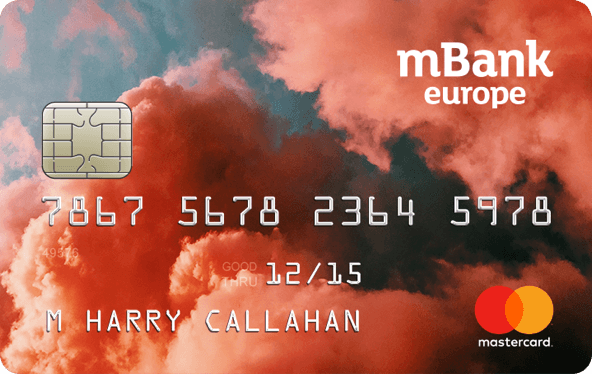
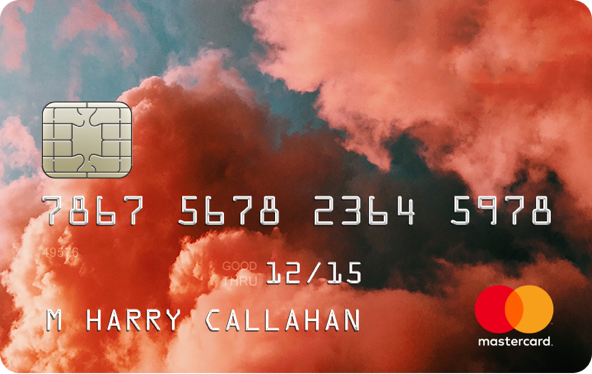
Remove branding

diff --git a/src/text/english.js b/src/text/english.js
@@ -22,8 +22,8 @@ export default {
     confirmPassword: 'Confirm password',
     deny: 'Deny',
     allow: 'Allow',
-    allowLocation: 'Allow mBank Europe to access this device’s location?',
-    allowCamera: 'Allow mBank Europe app to take pictures and record video?',
+    allowLocation: 'Allow MeineFinanzen to access this device’s location?',
+    allowCamera: 'Allow MeineFinanzen app to take pictures and record video?',
     germany: 'Germany',
     continue: 'Continue',
     thanks: 'Thanks!',
@@ -39,7 +39,7 @@ export default {
     },
     usp: {
       0: 'Transfer money for free worldwide',
-      1: 'Send money abroad for free in realtime with mBank Europe. Transfer money to any bank, business or friend immediately.',
+      1: 'Send money abroad for free in realtime with MeineFinanzen. Transfer money to any bank, business or friend immediately.',
       2: 'ATM for free worldwide',
       3: 'Up to 500 Euro you can take cash from ATM for free in any country.',
       4: 'Multicurrency contactless',
@@ -55,7 +55,7 @@ export default {
     },
     step1: {
       intro: {
-        0: 'Get your new mBank account in only 3 simple steps and start with…'
+        0: 'Get your new MeineFinanzen account in only 3 simple steps and start with…'
       },
       name: {
         0: 'Please tell us something about yourself',
@@ -112,17 +112,17 @@ export default {
         0: 'Almost done! Only a few consents left',
         1: 'Confirm all',
         2: 'Electronic communication',
-        3: 'Terms of Service of mBank and IDNow',
-        4: 'Advertisement of mBank partners',
+        3: 'Terms of Service of MeineFinanzen and IDNow',
+        4: 'Advertisement of MeineFinanzen partners',
         5: 'Data processing and usage',
         6: 'General Data Protection Regulation'
       },
       finish: {
-        0: 'Finally, let’s open your mBank account!',
+        0: 'Finally, let’s open your MeineFinanzen account!',
         1: 'Below is a link to the contract.',
         2: 'But you don’t need to download it now, as we already sent it to you by email.',
-        3: 'Download the full mBank Account Contract (PDF)',
-        4: 'I want to open an mBank account and confirm that I act on <em>my own behalf</em>'
+        3: 'Download the full MeineFinanzen Account Contract (PDF)',
+        4: 'I want to open an MeineFinanzen account and confirm that I act on <em>my own behalf</em>'
       }
     },
     step2: {
@@ -160,7 +160,7 @@ export default {
         4: 'We can send it again'
       },
       accountReady: {
-        0: 'Your new mBank account is ready!',
+        0: 'Your new MeineFinanzen account is ready!',
         1: 'Forward account data',
         2: 'IBAN',
         3: 'DE12 1234 5678 9876 54',
@@ -225,7 +225,7 @@ export default {
       9: 'Thanks to these we will be able to provide you with better quality of advertising, without irritation and unnecessary spam!',
       10: 'To be sure that you log in to the right place, you will recognize it with your profile pic.',
       11: 'Don’t forget to smile!',
-      12: '{userName} your mBank Europe account is ready to use!',
+      12: '{userName} your MeineFinanzen account is ready to use!',
       13: 'Your MasterCard Debit PayPass card is on its way to the address provided in the form',
       14: "Let's go there!",
       15: '{userName}, before we start',

diff --git a/src/text/german.js b/src/text/german.js
@@ -22,8 +22,8 @@ export default {
     confirmPassword: 'Passwort bestätigen',
     deny: 'Ablehnen',
     allow: 'Erlauben',
-    allowLocation: 'Erlaube mBank Europe auf den Standort deines Geräts zuzugreifen',
-    allowCamera: 'Erlaube der mBank Europe App, Bilder und Videos aufzunehmen',
+    allowLocation: 'Erlaube MeineFinanzen auf den Standort deines Geräts zuzugreifen',
+    allowCamera: 'Erlaube der MeineFinanzen App, Bilder und Videos aufzunehmen',
     germany: 'Deutschland',
     continue: 'Continue',
     thanks: 'Thanks!',
@@ -57,7 +57,7 @@ export default {
     },
     step1: {
       intro: {
-        0: 'Eröffne dein mBank europe Konto in 3 einfachen Schritten und beginne mit…'
+        0: 'Eröffne dein MeineFinanzen europe Konto in 3 einfachen Schritten und beginne mit…'
       },
       name: {
         0: 'Bitte erzähle uns etwas über dich',
@@ -114,17 +114,17 @@ export default {
         0: 'Fast geschafft! Nur folgende Einwilligungen fehlen noch',
         1: 'Alle bestätigen',
         2: 'Fernsabsatzgesetz',
-        3: 'Nutzungsbedingungen der mBank und von IDNow',
-        4: 'Werbliche Informationen der mBank-Partner',
+        3: 'Nutzungsbedingungen der MeineFinanzen und von IDNow',
+        4: 'Werbliche Informationen der MeineFinanzen-Partner',
         5: 'Datenverarbeitung und Datennutzung',
         6: 'Datenschutz-Grundverordnung'
       },
       finish: {
-        0: 'Geschafft! Lass und jetzt dein mBank europe Konto eröffnen!',
+        0: 'Geschafft! Lass und jetzt dein MeineFinanzen europe Konto eröffnen!',
         1: 'Unten findest du den Link zu deinem Kontovertrag.',
         2: 'Du musst ihn jetzt nicht herunterladen, wir haben ihn dir bereits per E-Mail geschickt',
-        3: 'Lade den kompletten mBank Kontovertrag herunter (PDF)',
-        4: 'Ich möchte ein mBank europe Konto eröffnen und bestätige, dass ich <em>für mich selbst handle</em>'
+        3: 'Lade den kompletten MeineFinanzen Kontovertrag herunter (PDF)',
+        4: 'Ich möchte ein MeineFinanzen europe Konto eröffnen und bestätige, dass ich <em>für mich selbst handle</em>'
       }
     },
     step2: {
@@ -162,7 +162,7 @@ export default {
         4: 'We can send it again'
       },
       accountReady: {
-        0: 'Dein neues mBank Konto ist eröffnet!',
+        0: 'Dein neues MeineFinanzen Konto ist eröffnet!',
         1: 'Hier sind deine Kontodaten',
         2: 'IBAN',
         3: 'DE12 1234 5678 9876 54',
@@ -227,7 +227,7 @@ export default {
       9: 'Thanks to these we will be able to provide you with better quality of advertising, without irritation and unnecessary spam!',
       10: 'To be sure that you log in to the right place, you will recognize it with your profile pic.',
       11: 'Don’t forget to smile!',
-      12: '{userName} your mBank Europe account is ready to use!',
+      12: '{userName} your MeineFinanzen account is ready to use!',
       13: 'Your MasterCard Debit PayPass card is on its way to the address provided in the form',
       14: "Let's go there!",
       15: '{userName}, before we start',

diff --git a/src/components/App.js b/src/components/App.js
@@ -1,3 +1,5 @@
+// TODO: schować pattern po zakończeniu animacji intro page
+
 import React, { Component } from 'react'
 import styled from 'styled-components'
 import { hot } from 'react-hot-loader'
@@ -39,14 +41,13 @@ import DashboardPage from 'pages/onboarding-2/DashboardPage'
 // 404
 import NotFoundPage from 'pages/NotFoundPage'
 
-const VERSION = 'v0.8.0'
+const VERSION = 'v0.8.2'
 
 class App extends Component {
   state = {
     password: '',
     loggedIn: Boolean(sessionStorage.getItem('loggedIn')),
     imagesLoaded: false,
-    shouldPrefillData: false,
     language: sessionStorage.getItem('language') || 'english'
   }
 
@@ -69,7 +70,7 @@ class App extends Component {
   }
 
   render() {
-    const { password, loggedIn, imagesLoaded, shouldPrefillData, language } = this.state
+    const { password, loggedIn, imagesLoaded, language } = this.state
 
     return (
       <TextProvider language={language}>
@@ -128,12 +129,7 @@ class App extends Component {
             <PrivateRoute path="/onboarding-1/usp" isRestricted={!loggedIn} component={UspPage} />
             <PrivateRoute path="/onboarding-1/first-login" isRestricted={!loggedIn} component={FirstLoginPage} />
 
-            <PrivateRoute
-              path="/onboarding-1/step-1"
-              isRestricted={!loggedIn}
-              component={Step1Page}
-              shouldPrefillData={shouldPrefillData}
-            />
+            <PrivateRoute path="/onboarding-1/step-1" isRestricted={!loggedIn} component={Step1Page} />
 
             <PrivateRoute path="/onboarding-1/step-2" isRestricted={!loggedIn} component={Step2Page} />
             <PrivateRoute path="/onboarding-1/step-3" isRestricted={!loggedIn} component={Step3Page} />
@@ -156,11 +152,7 @@ class App extends Component {
           </Switch>
 
           {process.env.NODE_ENV === 'development' && (
-            <RouteChanger
-              location={this.props.location}
-              history={this.props.history}
-              handlePrefill={() => this.setState({ shouldPrefillData: true })}
-            />
+            <RouteChanger location={this.props.location} history={this.props.history} />
           )}
         </Background>
       </TextProvider>
@@ -170,7 +162,6 @@ class App extends Component {
 
 export default hot(module)(App)
 
-/* prettier-ignore */
 const AppVersion = styled.span`
   position: fixed;
   bottom: 8px;

diff --git a/src/pages/onboarding-1/Step1Page.js b/src/pages/onboarding-1/Step1Page.js
@@ -40,47 +40,6 @@ import contractPdf from 'assets/Contract.pdf'
 
 const paths = routes.filter(route => route.includes('/onboarding-1/step-1/'))
 
-const prefilledData = {
-  firstName: 'John',
-  lastName: 'Rambo',
-  maidenName: 'Robert',
-  chosenCard: 1,
-  email: 'john.rambo@fake.mail',
-  phoneNumber: '123 456 789',
-  birthDate: '10-10-1970',
-  birthPlace: 'Houston',
-  citizenship: 'American',
-  postalCode: '02-345',
-  city: 'Houston',
-  streetName: 'Some Street',
-  buildingNumber: '1',
-  apartmentNumber: '23',
-  country: 'Germany',
-  isCorrespondenceAddressDifferent: true,
-  correspondencePostalCode: '03-489',
-  correspondenceCity: 'Somewhere',
-  correspondenceStreetName: 'Something',
-  correspondenceBuildingNumber: '9',
-  correspondenceApartmentNumber: '',
-  correspondenceCountry: 'Germany',
-  taxes: [
-    {
-      id: uuid(),
-      countryOfTax: 'Foo',
-      taxId: '123'
-    }
-  ],
-  job: '',
-  industry: '',
-  consent1: true,
-  consent2: true,
-  consent3: true,
-  consent4: true,
-  consent5: false,
-  consent6: false,
-  reviewEditMode: false
-}
-
 class Step1Page extends Component {
   state = {
     firstName: '',
@@ -126,12 +85,6 @@ class Step1Page extends Component {
     showLocationModal: false,
     allowLocation: false,
     locationModalCallback: null
-  }
-
-  componentDidUpdate(prevProps) {
-    if (!prevProps.shouldPrefillData && this.props.shouldPrefillData) {
-      this.setState(prefilledData)
-    }
   }
 
   change = name => value => this.setState({ [name]: value })

diff --git a/src/components/CardCarousel.js b/src/components/CardCarousel.js
@@ -15,21 +15,19 @@ export default ({ value, onChange }) => {
 
   return (
     <Wrapper>
-      <Swiper onSwipeLeft={handleChange(move(value, 1, 3))} onSwipeRight={handleChange(move(value, -1, 3))}>
+      <Swiper onSwipeLeft={handleChange(move(value, 1, 2))} onSwipeRight={handleChange(move(value, -1, 2))}>
         <Track offset={value}>
           <Card src={card1} isActive={value === 0} onClick={handleChange(0)} />
           <Card src={card2} isActive={value === 1} onClick={handleChange(1)} />
           <Card src={card3} isActive={value === 2} onClick={handleChange(2)} />
-          <Card src={card1} isActive={value === 3} onClick={handleChange(3)} />
         </Track>
       </Swiper>
 
-      <Pagination size={4} value={value} onChange={handleChange} />
+      <Pagination size={3} value={value} onChange={handleChange} />
     </Wrapper>
   )
 }
 
-/* prettier-ignore */
 const Wrapper = styled.div`
   display: flex;
   flex-direction: column;
@@ -48,6 +46,7 @@ const Track = styled.div`
   transition: 0.3s;
 `
 
+// prettier-ignore
 const Card = styled.img.attrs({ alt: '' })`
   flex: none;
   display: block;
@@ -56,10 +55,8 @@ const Card = styled.img.attrs({ alt: '' })`
 
   transition: 0.3s;
 
-  ${props =>
-    !props.isActive &&
-    `
+  ${props => !props.isActive && `
     opacity: 0.5;
     transform: scale(0.9);
-  `};
+  `}
 `

diff --git a/src/components/Pagination.js b/src/components/Pagination.js
@@ -1,6 +1,7 @@
 import React from 'react'
 import styled from 'styled-components'
 import { Div } from 'styled-kit'
+import { rgba } from 'polished'
 
 export default ({ size, value, onChange, small, ...props }) => (
   <Div flex="none" itemsCenter listLeft={small ? 8 : 12} {...props}>
@@ -15,7 +16,7 @@ const Dot = styled.span`
   width: ${props => (props.small ? 6 : 10)}px;
   height: ${props => (props.small ? 6 : 10)}px;
   border-radius: 50%;
-  background: ${props => (props.isActive ? 'black' : 'rgba(0, 0, 0, 0.2)')};
+  background: ${props => (props.isActive ? 'black' : rgba('black', 0.2))};
   transition: 0.3s;
   cursor: pointer;
 `

diff --git a/src/components/PrivateRoute.js b/src/components/PrivateRoute.js
@@ -5,16 +5,7 @@ export default ({ component: Component, isRestricted, ...rest }) => (
   <Route
     {...rest}
     render={props =>
-      !isRestricted ? (
-        <Component {...props} shouldPrefillData={rest.shouldPrefillData} />
-      ) : (
-        <Redirect
-          to={{
-            pathname: '/',
-            state: { from: props.location }
-          }}
-        />
-      )
+      !isRestricted ? <Component {...props} /> : <Redirect to={{ pathname: '/', state: { from: props.location } }} />
     }
   />
 )

diff --git a/src/components/RouteChanger.js b/src/components/RouteChanger.js
@@ -30,13 +30,10 @@ export default props => {
           ))}
         </RoutesList>
       </Button>
-
-      <Button onClick={props.handlePrefill}>Prefill</Button>
     </Wrapper>
   )
 }
 
-/* prettier-ignore */
 const RoutesList = styled.div`
   padding: 2px 4px;
 
@@ -73,7 +70,7 @@ const RoutesList = styled.div`
       text-decoration: underline;
     }
   }
-`;
+`
 
 const Wrapper = styled.div`
   display: flex;

diff --git a/public/index.html b/public/index.html
@@ -12,7 +12,7 @@
     <link rel="mask-icon" href="%PUBLIC_URL%/safari-pinned-tab.svg" color="#ffc40d">
     <meta name="msapplication-TileColor" content="#ffc40d">
     <meta name="theme-color" content="#ffffff">
-    <title>mBank Onboarding Demo</title>
+    <title>MeineFinanzen Onboarding Demo</title>
   </head>
   <body>
     <noscript>

diff --git a/src/components/SmsDialog.js b/src/components/SmsDialog.js
@@ -16,7 +16,7 @@ const SmsDialog = ({ pin, isVisible, withDash, texts, ...props }) => {
         <Avatar>me</Avatar>
 
         <Div column mLeft={12}>
-          <Title>mBank Europe</Title>
+          <Title>MeineFinanzen</Title>
 
           <Subtitle>
             {/*  TODO: texts.onboarding1.step2.smsCode[0] */}

diff --git a/src/components/Typography.js b/src/components/Typography.js
@@ -2,7 +2,7 @@ import styled, { css } from 'styled-components'
 
 const withUnit = value => (typeof value === 'number' ? `${value}px` : value)
 
-/* prettier-ignore */
+// prettier-ignore
 const baseStyles = css`
   display: flex;
   align-items: center;

diff --git a/src/pages/onboarding-1/UspPage.js b/src/pages/onboarding-1/UspPage.js
@@ -99,7 +99,6 @@ class UspPage extends Component {
 
 export default withTexts(UspPage)
 
-/* prettier-ignore */
 const Header = styled.header`
   flex: none;
   display: flex;
